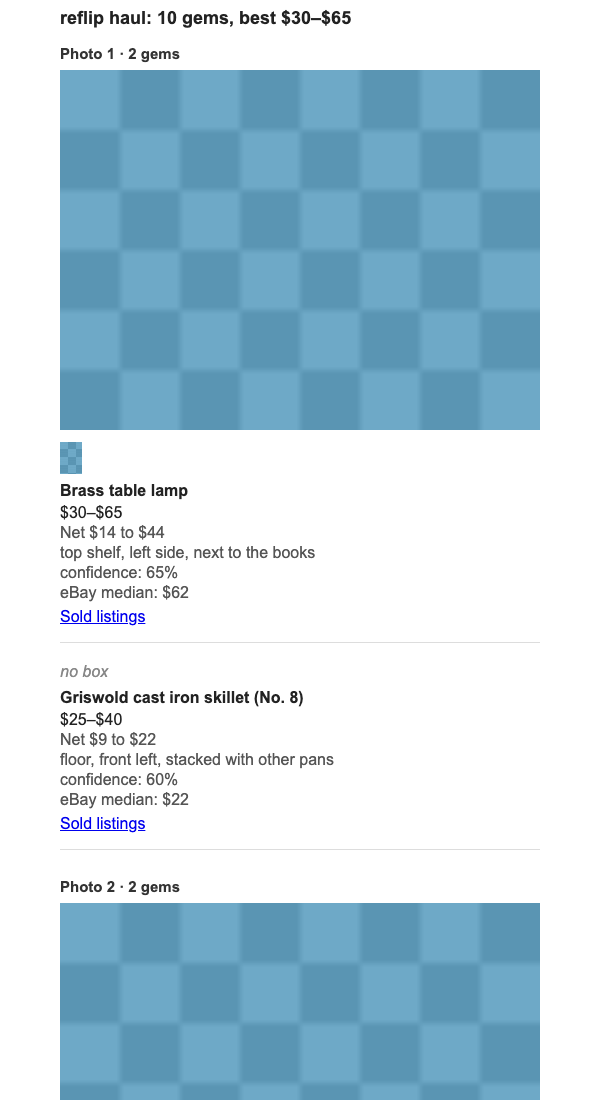
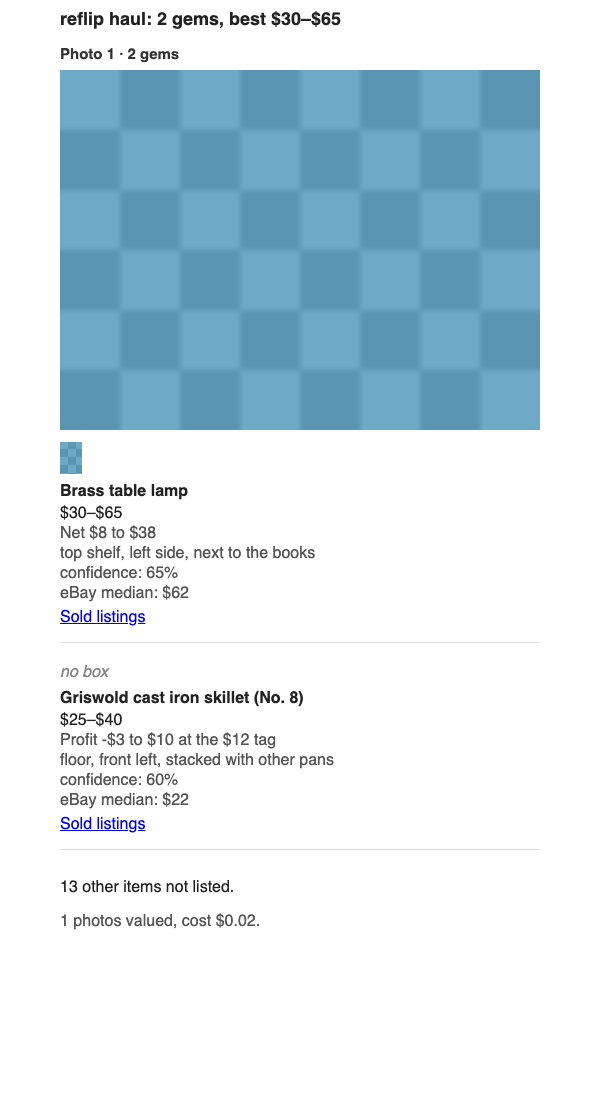
Profit step 3b: gem card and email screenshots, build log
The gem card shot grows the viewport to the page height, so the
open profit line shows without a scroll. The email shot renders the
fixture haul's outbox .eml with scripts/eml-preview.py.

diff --git a/docs/profit-build.md b/docs/profit-build.md
@@ -5,7 +5,7 @@ Branch: claude/profit-estimate (from dd77eeb)
 
 Verification command: `npm test`
 
-Spec: `docs/spec-profit.md`, sections "The math", "Shipping classes", "Shape", "MVP" (steps 1 and 2 only).
+Spec: `docs/spec-profit.md`, sections "The math", "Shipping classes", "Shape", "MVP" (steps 1 to 3).
 
 ## Steps
 
@@ -19,6 +19,8 @@ Spec: `docs/spec-profit.md`, sections "The math", "Shipping classes", "Shape", "
       (1076 baseline + 25 new). Commit: 037aff3
 - [x] 2. Class and tag price through the schema, decode, reply, stream and ledger. Green. See
       "Session 2 log" and "Session 3 log" below for the exact history.
+- [x] 3. The profit line on the scan sheet, the gem card and the haul email. See "Session 4
+      log" below.
 
 ## Design note: the `src/Shared.res` conflict
 
@@ -258,3 +260,37 @@ ok, 0 not ok. Curl checks against `FIXTURES=1 PORT=8797` matched `Profit.res`'s 
 cent. `node scripts/haul-smoke.mjs --timeout 300` passed (`"ok":true`, no failures). Commit:
 squashed with step 2's earlier work into one commit, "Profit step 2: class and tag price in the
 schema, reply and ledger".
+
+## Session 4 log
+
+Step 3 is in these commits:
+
+1. 7cdca68 and a3535ed: `Profit.res` got the text helpers `netText`, `profitText`, `lineText`,
+   `isLoss` and `partsText`. The haul email shows the line under the range of each gem. A loss
+   is red.
+2. d4faac9: `Profit.defaultClass` and `Store.profitOf`. A stored find gets one estimate from its
+   stored class and tag.
+3. 01753cf and 1edbcd6: the fixtures carry a ship class and a tag price. The board game lot in
+   the scene fixtures ships `large`, because it does not fit a small box.
+4. 71978cc: `src/web/ProfitLine.res`, a closed `<details>` on the scan sheet and on the gem card.
+   A tap on the line shows the price, the eBay fee, the postage and the tag.
+5. 0123fe2 and the commit after it: the four shots in `docs/shots/profit/`.
+
+`npm test` on 0123fe2: 1133 ok, 0 not ok. `node scripts/haul-smoke.mjs --skip-build --timeout
+300` passed with no console errors. At a 390x844 viewport, a mouse-wheel scroll brings the
+profit line of an open gem card into view.
+
+### Live check, 2026-09-27
+
+Live calls ran on the stream route and on the haul route, with structured output on. The API
+accepted the tag price as a number or null in `required`. A shelf of board games came back as
+losses, because each game ships `large` at $16.76. A Guardians book set showed a $5 tag, and its
+line read "Profit -$4 to $4 at the $5 tag". The calls cost about $0.13 in total. No email went
+out.
+
+## Later
+
+1. The profit readout, part 2 of `docs/spec-profit.md`. It compares the real profit of a sold
+   find with its estimate.
+2. A form for the paid price, so that the line can use the real buy price instead of the tag.
+3. A search by barcode. A barcode holds no price, so this search needs its own price source.
